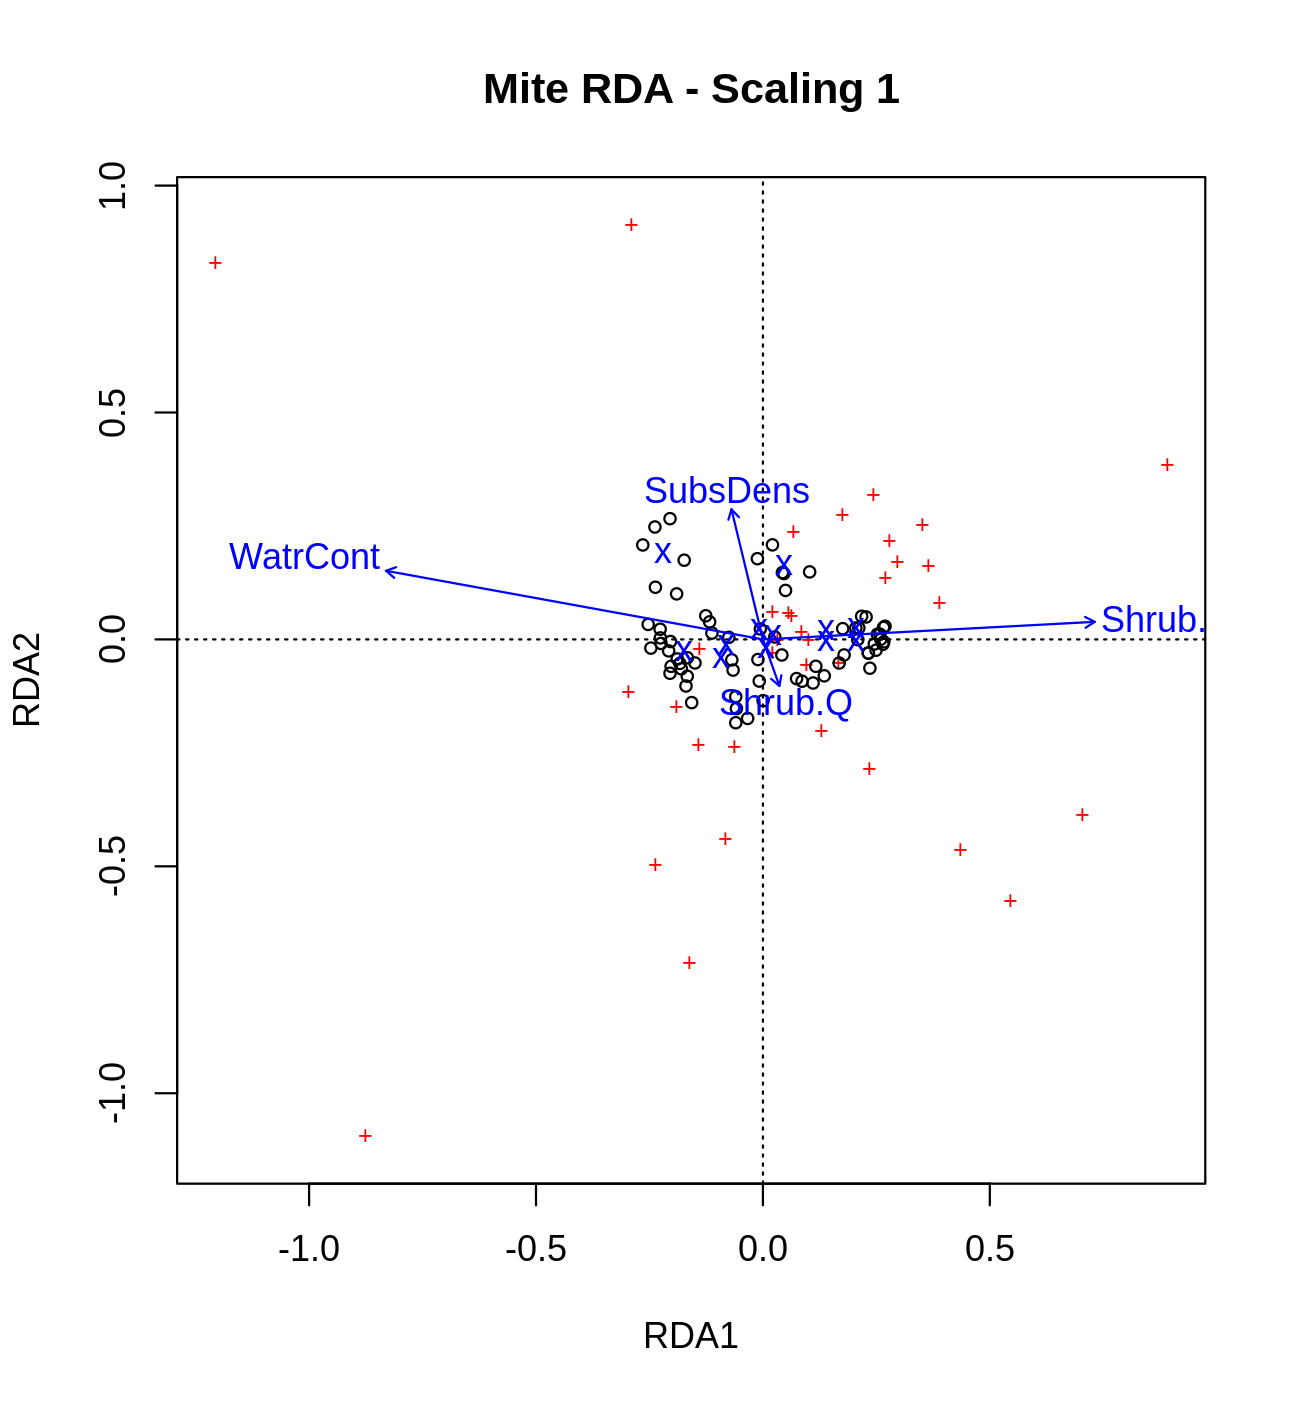
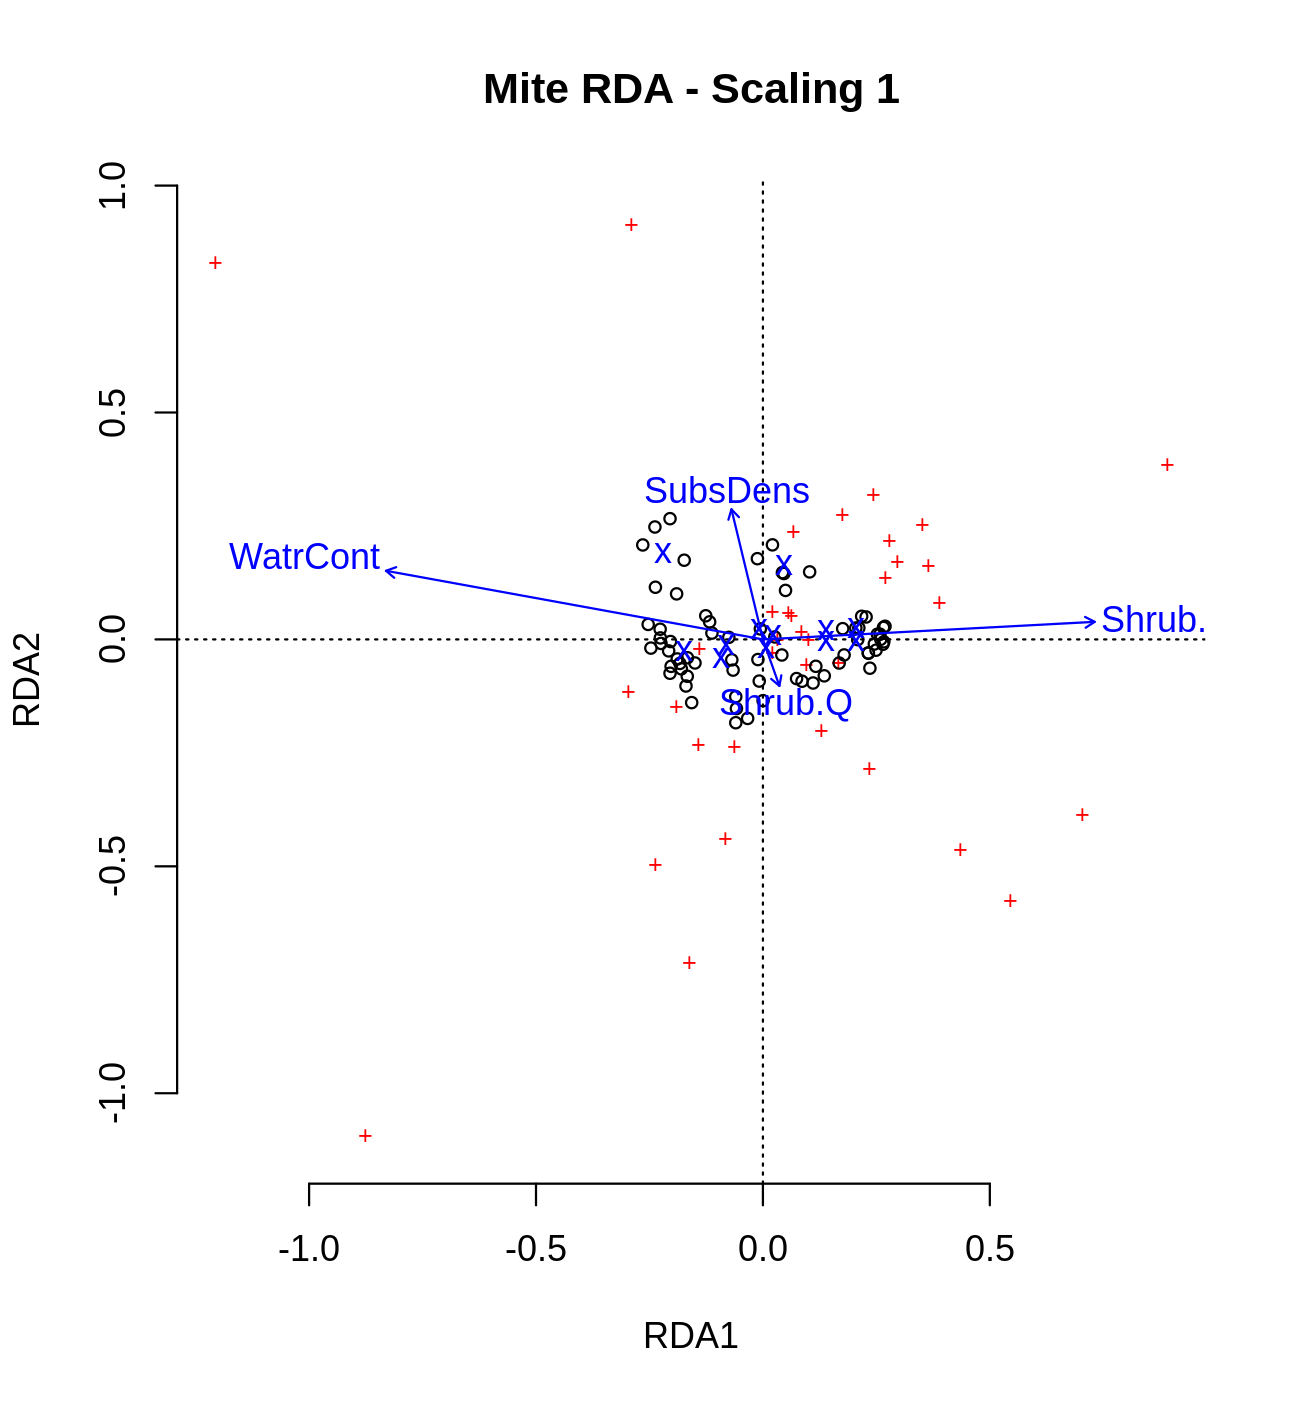
Deploying to gh-pages from  @ 32bec570abb02463688db9fd66bd239021743a67 🚀

diff --git a/pres-en/workshop10-pres-en.html b/pres-en/workshop10-pres-en.html
@@ -284,7 +284,17 @@ summary(env) # summary statistics for all objects (min, mean, max, etc.)
 
 ```r
 # We can visually look for correlations between variables:
-pairs(env)
+
+heatmap(abs(cor(env)), ## Compute pearson correlation (note they are absolute values)
+        col = rev(heat.colors(6)))
+
+legend("topright",
+       legend =  round(seq(0,1, 
+                     length.out = 6),1),
+       y.intersp = 0.7,
+       title = "Absolute correlation (Pearson)",
+       bty = "n",
+       fill = rev(heat.colors(6)))
 ```
 
 &lt;img src="workshop10-pres-en_files/figure-html/unnamed-chunk-11-1.png" width="648" style="display: block; margin: auto;" /&gt;
@@ -479,6 +489,7 @@ There are 2 scaling options:
 ```r
 ordiplot(spe.rda.signif,
          scaling = 1,
+         frame = F,
          type = "text")
 ```
 
@@ -631,6 +642,7 @@ Step 5: Plot the RDA!
 ```r
 ordiplot(mite.spe.rda.signif,
          scaling = 1,
+         frame = F,
          main = "Mite RDA - Scaling 1")
 ```
 
@@ -641,6 +653,7 @@ ordiplot(mite.spe.rda.signif,
 ```r
 ordiplot(mite.spe.rda.signif,
          scaling = 2,
+         frame = F,  
          main = "Mite RDA - Scaling 2")
 ```
 
@@ -800,7 +813,9 @@ We can visualise the effects of the environmental variables on the fish communit
 .small[
 
 ```r
-ordiplot(spe.partial.rda, scaling = 2,
+ordiplot(spe.partial.rda, 
+         scaling = 2,
+         frame = F, 
          main = "Doubs River partial RDA - Scaling 2")
 ```
 
@@ -904,8 +919,8 @@ anova.cca(mite.spe.subs, step = 1000, by = "axis")
 # Model: rda(formula = mite.spe.hel ~ Shrub + Topo + Condition(SubsDens + WatrCont + Substrate), data = mite.env)
 #          Df Variance      F Pr(&gt;F)    
 # RDA1      1 0.027236 8.4618  0.001 ***
-# RDA2      1 0.008254 2.5643  0.021 *  
-# RDA3      1 0.003193 0.9919  0.461    
+# RDA2      1 0.008254 2.5643  0.026 *  
+# RDA3      1 0.003193 0.9919  0.431    
 # Residual 58 0.186688                  
 # ---
 # Signif. codes:  0 '***' 0.001 '**' 0.01 '*' 0.05 '.' 0.1 ' ' 1
@@ -967,6 +982,7 @@ spe.part.all$part # access results!
 
 ```r
 plot(spe.part.all,
+     frame = F, 
      Xnames = c("Chem", "Topo"), # name the partitions
      bg = c("seagreen3", "mediumpurple"), alpha = 80, # colour the circles
      digits = 2, # only show 2 digits
@@ -1180,8 +1196,12 @@ anova.cca(rda(mite.spe.hel, mite.spat, mite.subs))
 Step 5: Plot the variation partitioning results
 
 ```r
-plot(mite.part, digits = 2, cex = 1.5,
-     bg = c("pink", "skyblue"), alpha = 90) # add colour!
+plot(mite.part, 
+     digits = 2, 
+     frame = F,
+     cex = 1.5,
+     bg = c("pink", "skyblue"),
+     alpha = 90) # add colour!
 ```
 
 &lt;img src="workshop10-pres-en_files/figure-html/unnamed-chunk-55-1.png" width="432" style="display: block; margin: auto;" /&gt;
